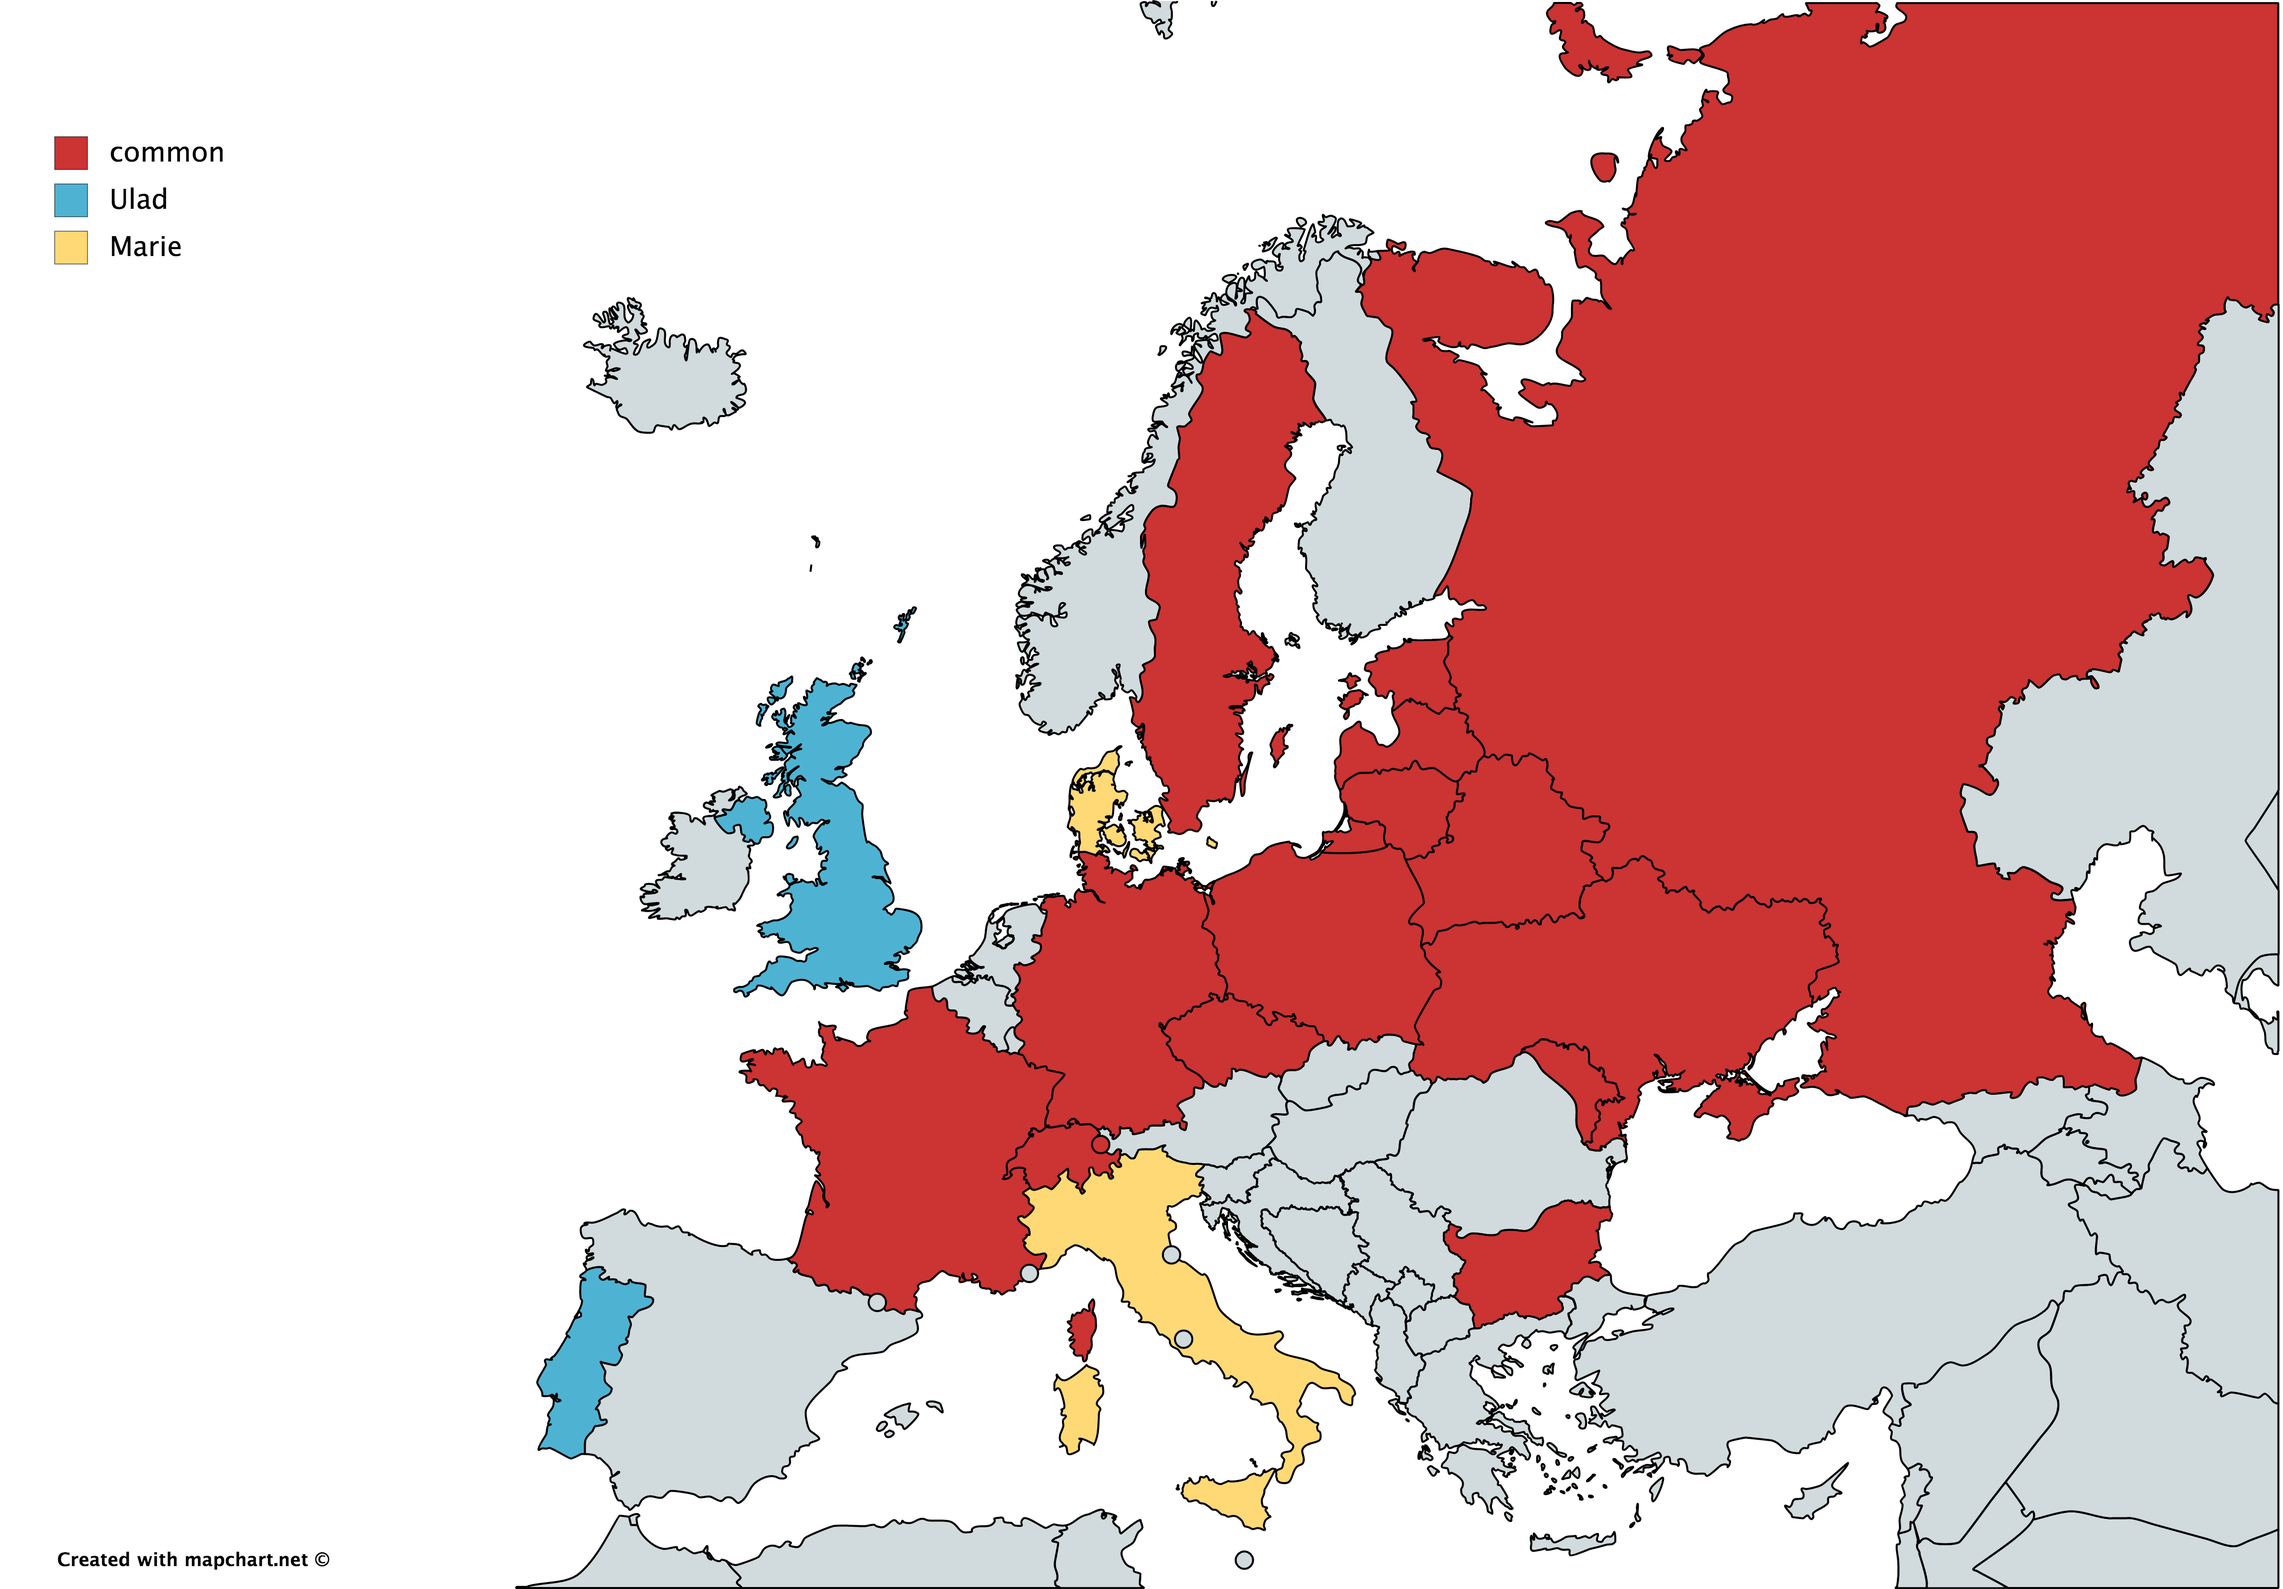
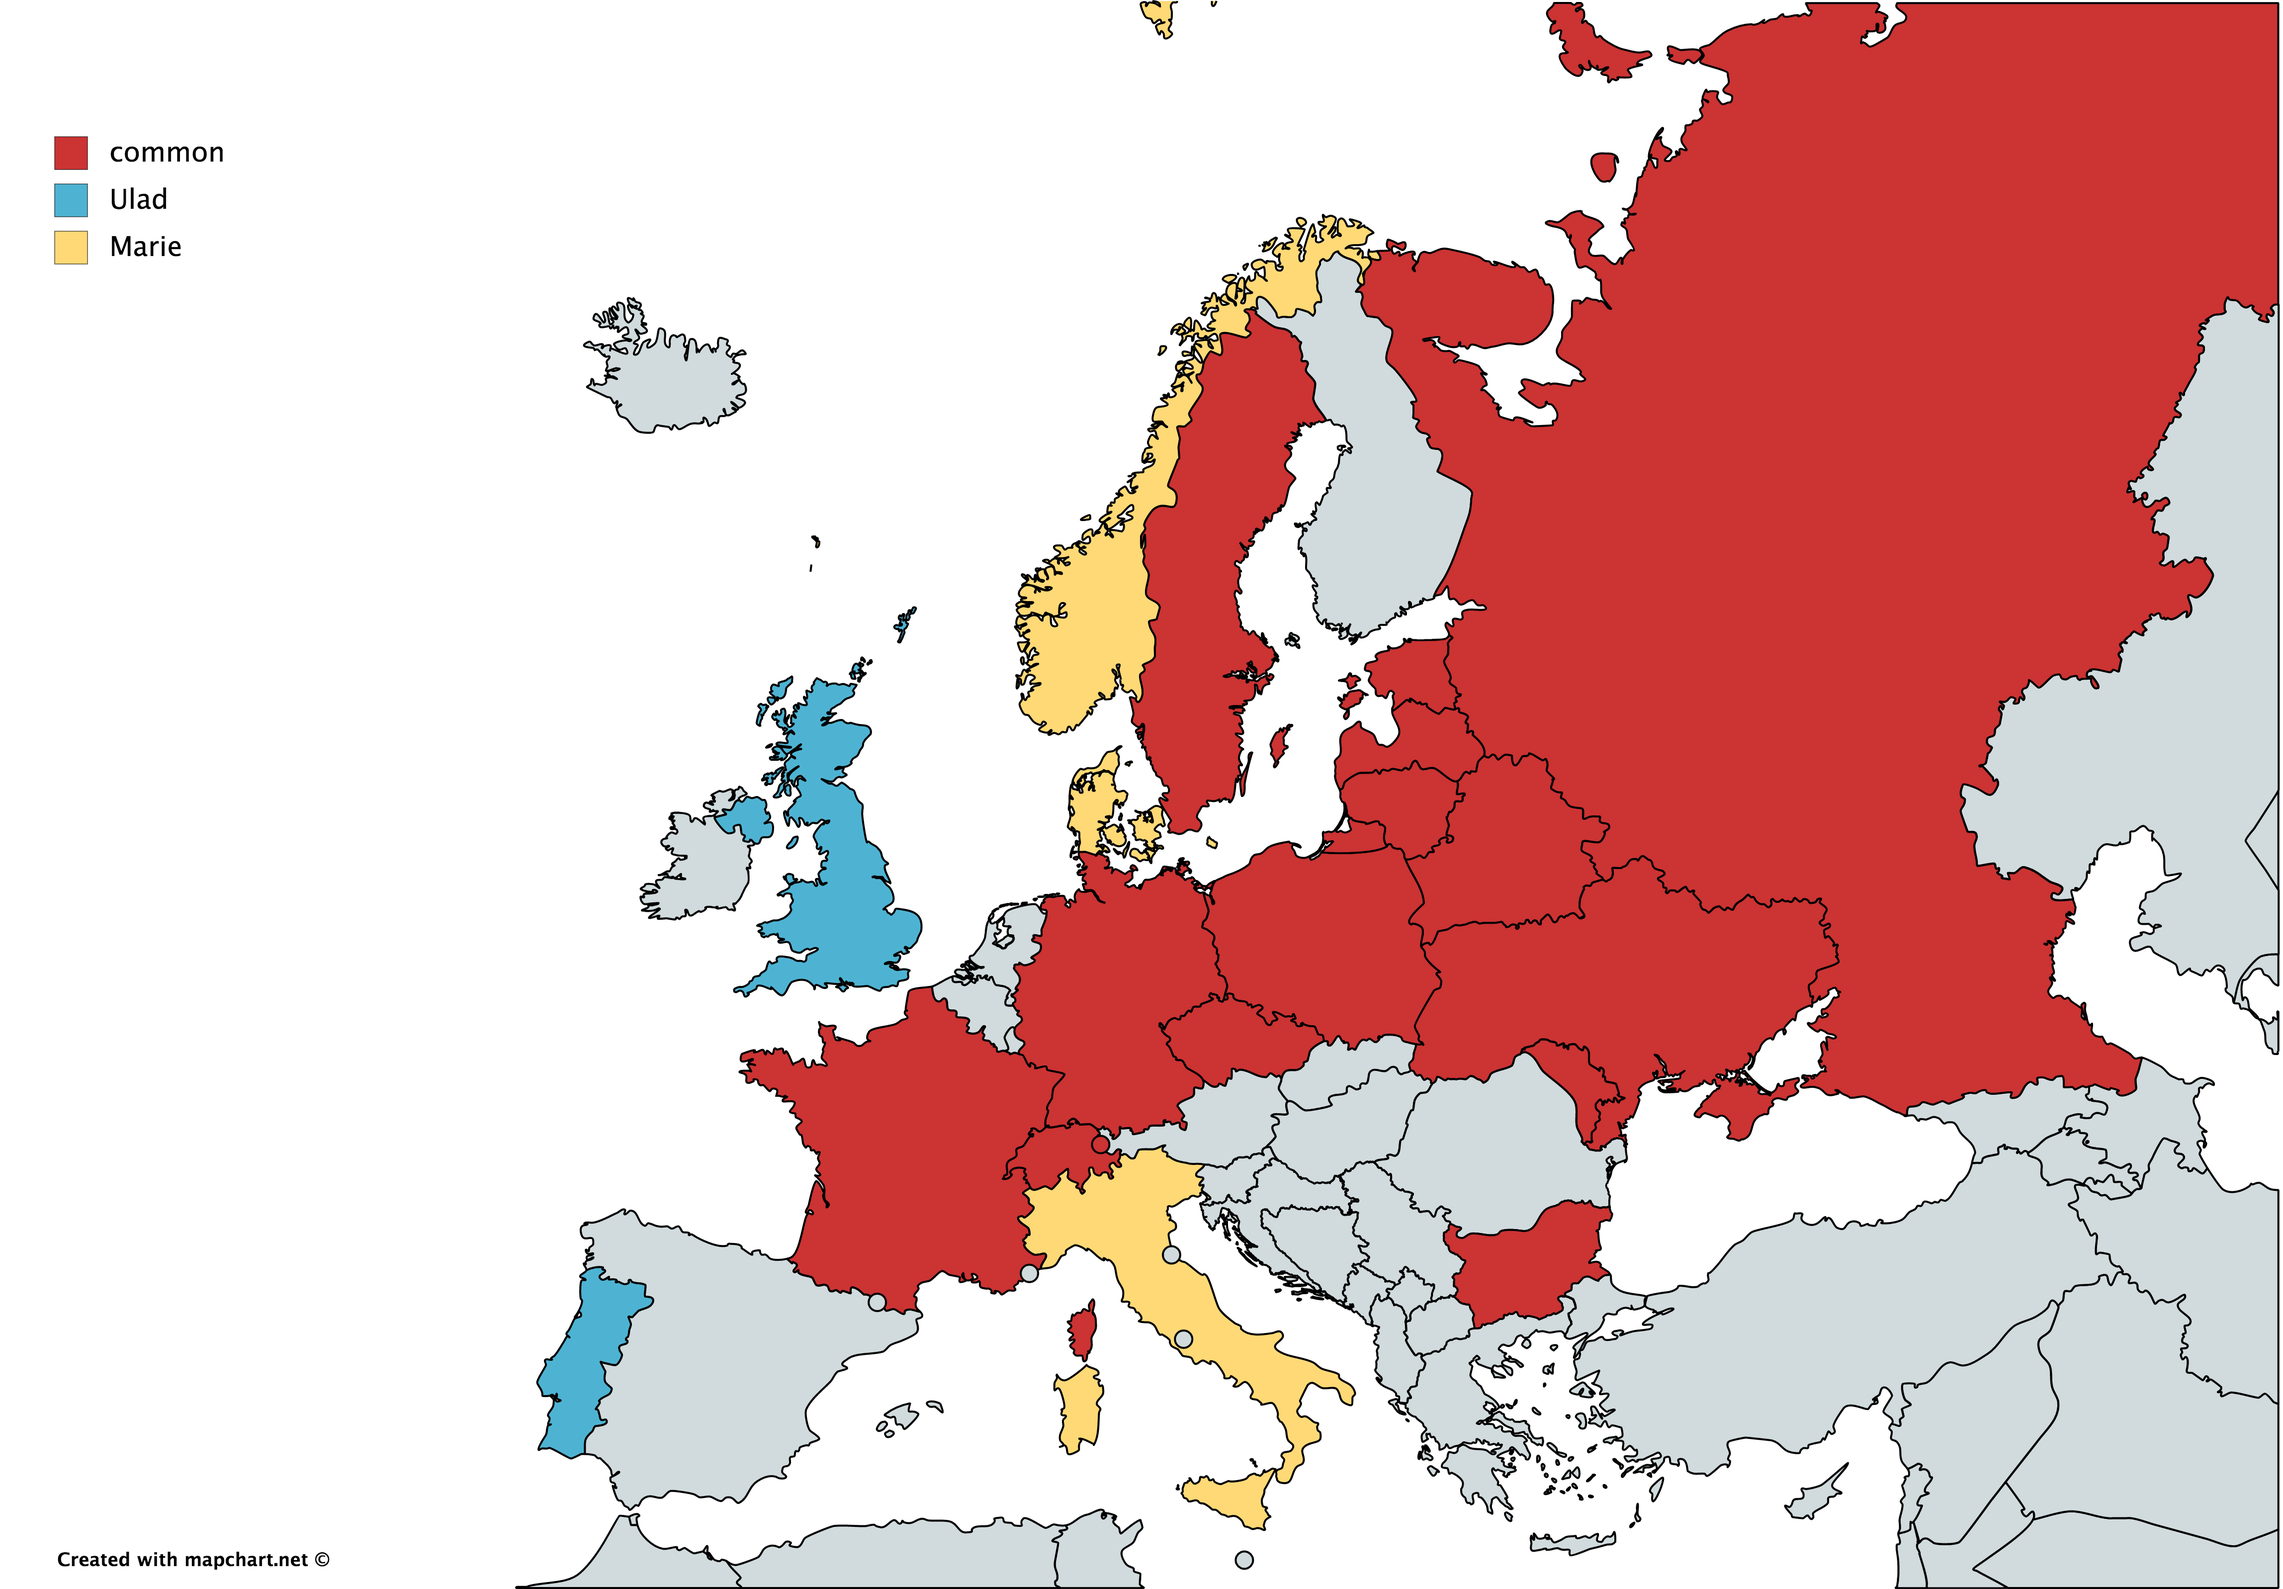
Norway upd

Changed region(s): [[0.436, 0.2168, 0.5294, 0.4646], [0.5294, 0.1239, 0.5917, 0.2168], [0.4983, 0.0, 0.5294, 0.031]]

diff --git a/index.html b/index.html
@@ -13,9 +13,9 @@
 </div>
 <div class="data">
 	<br>
-	<div class="names">Marie vs. Ulad</div>
+	<div class="names"><u>Marie</u> vs. Ulad</div>
 	<br>
-	<div class="numbers">17 vs. 17</div>
+	<div class="numbers"><u>18</u> vs. 17</div>
 	<br>
 	<div class="countries">
 		Беларусь <img class="flag" src="flags-iso/BY.png" style="vertical-align: middle; width: 30px;"><br>
@@ -38,10 +38,12 @@
 		<div class="countries marie-countries">
 			Італія <img class="flag" src="flags-iso/IT.png"><br>
 			Данія <img class="flag" src="flags-iso/DK.png"><br>
+			Нарвегія <img class="flag" src="flags-iso/NO.png"><br>
 		</div>
 		<div class="countries ulad-countries">
 			Велікабрытанія <img class="flag" src="flags-iso/GB.png"><br>
 			Партугалія <img class="flag" src="flags-iso/PT.png"><br>
+			<br>
 		</div>
 	</div>
 </div>
